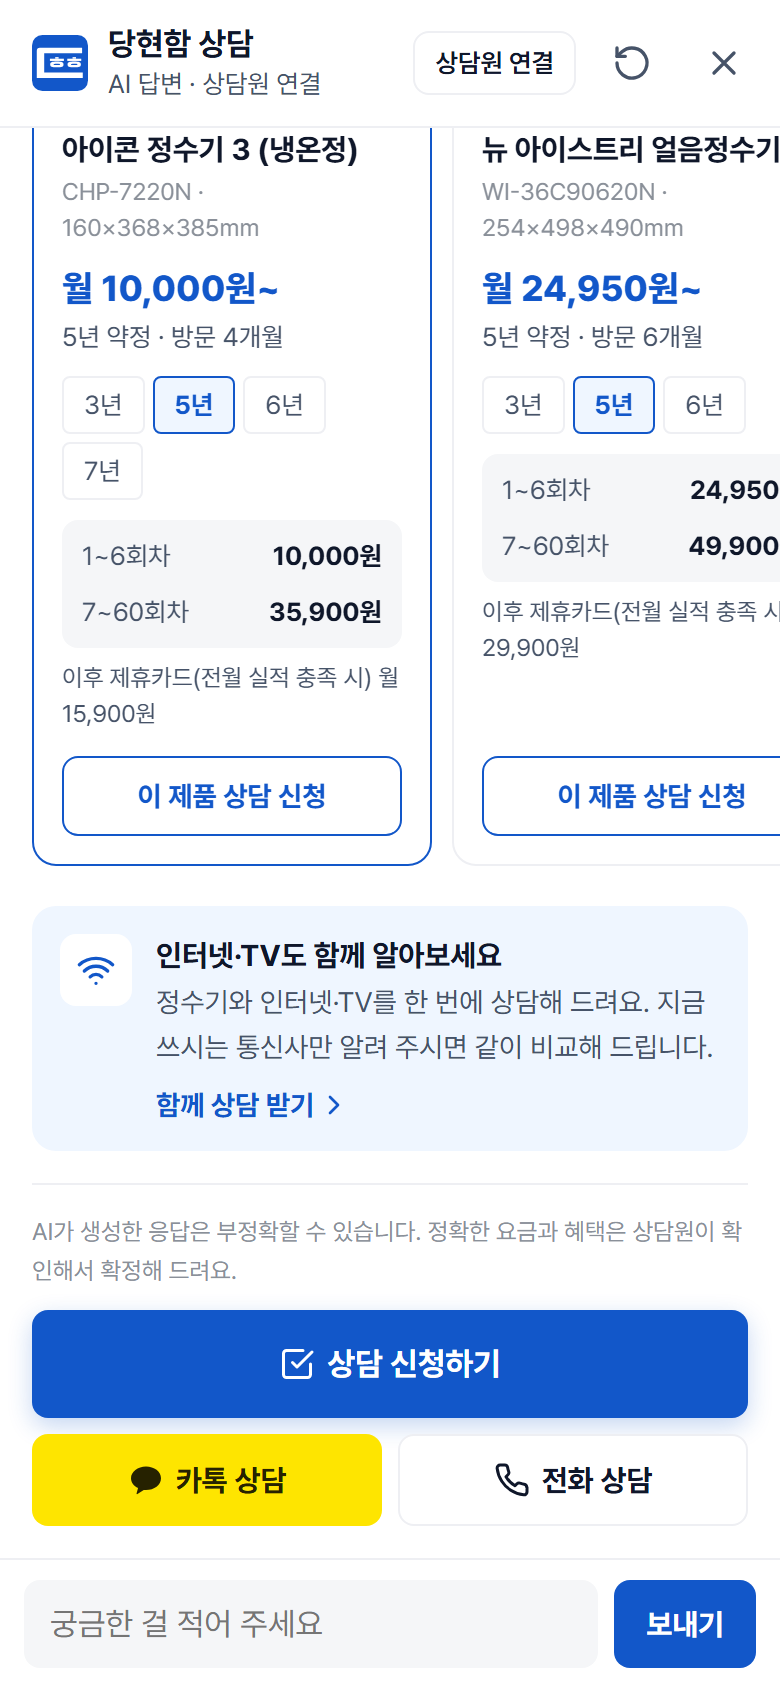
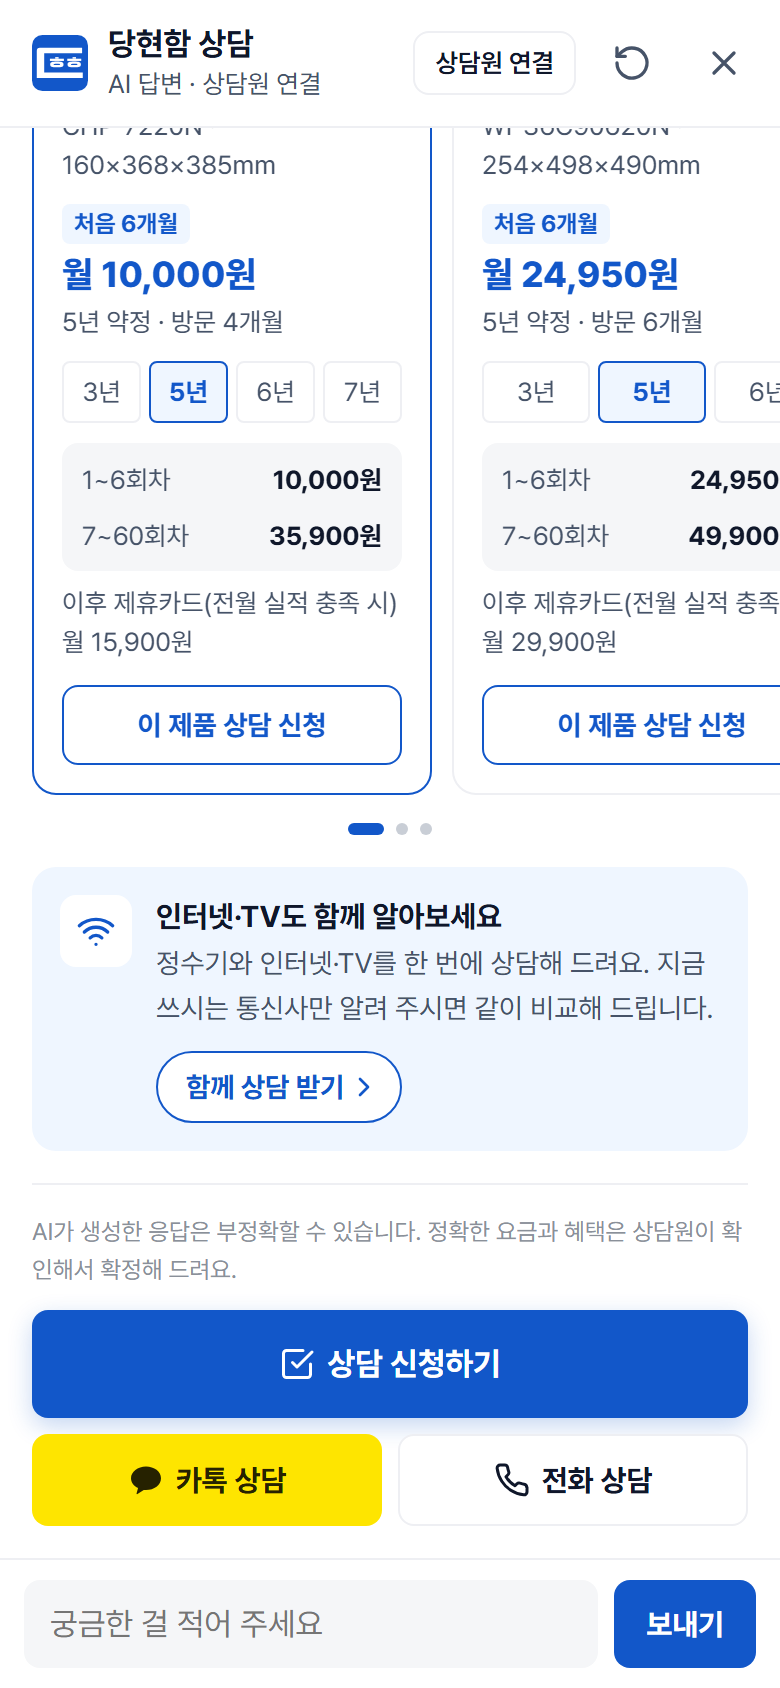
auto: 2026-11-12 15:44:45

diff --git a/시안/ai상담_디자인시안_20261112.html b/시안/ai상담_디자인시안_20261112.html
@@ -49,16 +49,16 @@ body.shot .dhai-panel.sian{width:390px;height:100vh;border:0;border-radius:0;box
 .dhai-card img{width:100%;height:132px;object-fit:contain;background:#fff;display:block;padding:10px}
 .dhai-cb{padding:4px 14px 12px;display:flex;flex-direction:column;gap:2px;flex:1}
 .dhai-brand{color:var(--c-sub,#465368);font-size:13px;line-height:1.4}.dhai-name{font-size:15px;font-weight:700;line-height:1.4;word-break:keep-all;color:var(--c-title,#0F172A)}
-.dhai-model{color:var(--c-dim,#8A9099);font-size:12px;line-height:1.5}
-.dhai-price{display:block;margin-top:8px;font-weight:800;color:var(--c-strong,#1257C9);font-size:18px;line-height:1.3}
+.dhai-model{color:var(--c-sub,#465368);font-size:13px;line-height:1.5}
+.dhai-price{display:flex;flex-direction:column;align-items:flex-start;gap:4px;white-space:nowrap;margin-top:8px;font-weight:800;color:var(--c-strong,#1257C9);font-size:18px;line-height:1.3}.dhai-price small{order:-1;font-size:12px;font-weight:700;color:var(--c-strong,#1257C9);background:var(--c-strong-bg,#EFF6FF);border-radius:4px;padding:2px 6px}
 .dhai-cond{display:block;font-size:13px;color:var(--c-sub,#465368);line-height:1.5}
-.dhai-opt{display:flex;flex-wrap:wrap;gap:4px;margin-top:8px}
-.dhai-opt button{border:1px solid var(--c-line,#EEEFF3);background:#fff;color:var(--c-sub,#465368);border-radius:4px;padding:5px 10px;font-family:inherit;font-size:13px;line-height:1.3;cursor:pointer}
+.dhai-opt{display:grid;grid-auto-flow:column;grid-auto-columns:minmax(0,1fr);gap:4px;margin-top:8px}
+.dhai-opt button{border:1px solid var(--c-line,#EEEFF3);background:#fff;color:var(--c-sub,#465368);border-radius:4px;padding:6px 0;font-family:inherit;font-size:13px;line-height:1.3;cursor:pointer;text-align:center}
 .dhai-opt button.on{border-color:var(--c-strong,#1257C9);background:var(--c-strong-bg,#EFF6FF);color:var(--c-strong,#1257C9);font-weight:700}
 .dhai-rounds{margin:8px 0 4px;background:var(--dh-gray-100,#F5F6F8);border-radius:8px;padding:4px 10px;font-size:13px}
 .dhai-rounds div{display:flex;justify-content:space-between;align-items:center;gap:6px;min-height:28px}
 .dhai-rounds span{color:var(--c-sub,#465368);white-space:nowrap}.dhai-rounds b{white-space:nowrap;font-weight:700;color:var(--c-body,#0F172A)}
-.dhai-note{display:block;color:var(--c-sub,#465368);font-size:12px;line-height:1.5}
+.dhai-note{display:block;color:var(--c-sub,#465368);font-size:13px;line-height:1.5}
 .dhai-cbtn{padding:0 14px 14px}
 .dhai-cbtn button{width:100%;height:40px;border:1px solid var(--c-strong,#1257C9);background:#fff;color:var(--c-strong,#1257C9);border-radius:8px;font-family:inherit;font-size:14px;font-weight:700;cursor:pointer}
 .dhai-warn{font-size:12px;line-height:1.6;color:var(--c-dim,#8A9099)}
@@ -81,7 +81,8 @@ body.shot .dhai-panel.sian{width:390px;height:100vh;border:0;border-radius:0;box
 /* ★6. 추천 제목 + 카드 순번 */
 .dhai-pick-h{display:flex;align-items:baseline;justify-content:space-between;gap:8px;margin:4px 0 -6px}
 .dhai-pick-h b{font-size:16px;font-weight:800;letter-spacing:-.02em;color:var(--c-title,#0F172A)}
-.dhai-pick-h span{font-size:12px;color:var(--c-dim,#8A9099)}
+.dhai-pick-h span{font-size:13px;font-weight:600;color:var(--c-sub,#465368)}
+.dhai-dots2{display:flex;justify-content:center;gap:6px;margin-top:-6px}.dhai-dots2 i{width:6px;height:6px;border-radius:999px;background:#C9CED6}.dhai-dots2 i.on{width:18px;background:var(--c-strong,#1257C9)}
 .dhai-card{position:relative}
 .dhai-no{position:absolute;top:10px;left:10px;z-index:1;min-width:24px;height:24px;padding:0 7px;border-radius:999px;background:var(--c-band,#0B2E5C);color:#fff;font-size:12px;font-weight:800;line-height:24px;text-align:center}
 .dhai-card.is-first{border-color:var(--c-strong,#1257C9)}
@@ -92,8 +93,8 @@ body.shot .dhai-panel.sian{width:390px;height:100vh;border:0;border-radius:0;box
 .dhai-with-ic{flex:none;width:36px;height:36px;border-radius:8px;background:#fff;color:var(--c-strong,#1257C9);display:flex;align-items:center;justify-content:center}
 .dhai-with-ic svg{width:20px;height:20px}
 .dhai-with b{display:block;font-size:15px;font-weight:700;line-height:1.4;color:var(--c-title,#0F172A)}
-.dhai-with p{margin:2px 0 8px;font-size:14px;line-height:1.6;color:var(--c-sub,#465368)}
-.dhai-with button{border:0;background:none;padding:0;font-family:inherit;font-size:14px;font-weight:700;color:var(--c-strong,#1257C9);cursor:pointer;display:inline-flex;align-items:center;gap:2px}
+.dhai-with p{margin:2px 0 10px;font-size:14px;line-height:1.6;color:var(--c-sub,#465368)}
+.dhai-with button{height:36px;border:1px solid var(--c-strong,#1257C9);background:#fff;border-radius:999px;padding:0 10px 0 14px;font-family:inherit;font-size:14px;font-weight:700;color:var(--c-strong,#1257C9);cursor:pointer;display:inline-flex;align-items:center;gap:2px}
 .dhai-with button svg{width:16px;height:16px}
 
 /* ★2. 맨 아래 큰 단추 — 안내 글은 위로, 상담 신청이 가장 크게 */
@@ -120,13 +121,13 @@ body.shot .dhai-panel.sian{width:390px;height:100vh;border:0;border-radius:0;box
   background-size:250% 100%;-webkit-background-clip:text;background-clip:text;-webkit-text-fill-color:transparent;animation:dhai-shine 1.6s linear infinite}
 @keyframes dhai-shine{0%{background-position:100% 0}100%{background-position:0 0}}
 .dhai-steps{list-style:none;margin:0;padding:12px 14px;display:flex;flex-direction:column;gap:8px;background:var(--dh-gray-100,#F5F6F8);border-radius:12px}
-.dhai-steps li{display:flex;align-items:center;gap:10px;font-size:14px;line-height:1.5;color:var(--c-dim,#8A9099);animation:dhai-in .35s ease-out both}
+.dhai-steps li{display:flex;align-items:center;gap:10px;font-size:15px;line-height:1.5;color:var(--c-sub,#465368);animation:dhai-in .35s ease-out both}
 .dhai-steps li::before{content:'';width:8px;height:8px;border-radius:50%;background:#C9CED6;flex:none}
 .dhai-steps li.now{color:var(--c-title,#0F172A);font-weight:700}
 .dhai-steps li.now::before{background:var(--c-strong,#1257C9);box-shadow:0 0 0 0 rgba(18,87,201,.45);animation:dhai-ping 1.4s ease-out infinite}
 @keyframes dhai-ping{0%{box-shadow:0 0 0 0 rgba(18,87,201,.45)}100%{box-shadow:0 0 0 7px rgba(18,87,201,0)}}
 @keyframes dhai-in{from{opacity:0;transform:translateY(4px)}to{opacity:1;transform:none}}
-.dhai-wait-sub{margin:0;font-size:13px;line-height:1.6;color:var(--c-sub,#465368)}
+.dhai-wait-sub{margin:0;font-size:14px;line-height:1.6;color:var(--c-sub,#465368)}
 /* 움직임 줄이기 설정이면 모두 멈춘 모양으로 */
 @media (prefers-reduced-motion:reduce){
   .dhai-face.is-wait::after,.dhai-bars i,.dhai-steps li,.dhai-steps li.now::before{animation:none}
@@ -181,16 +182,16 @@ body.shot .dhai-panel.sian{width:390px;height:100vh;border:0;border-radius:0;box
           </div>
         </div>
 
-        <div class="dhai-pick-h"><b>추천 정수기</b><span>옆으로 넘겨 보세요</span></div>
+        <div class="dhai-pick-h"><b>추천 정수기 3</b><span>옆으로 넘겨 보세요 ›</span></div>
         <div class="dhai-cards">
           <div class="dhai-card is-first"><span class="dhai-no">1</span>
             <a href="#"><img src="../img/coway-1.jpg" alt="아이콘 정수기 3"></a>
             <div class="dhai-cb"><a href="#"><span class="dhai-brand">코웨이</span><br><span class="dhai-name">아이콘 정수기 3 (냉온정)</span></a>
               <span class="dhai-model">CHP-7220N · 160×368×385mm</span>
-              <span class="dhai-price">월 10,000원~</span><span class="dhai-cond">5년 약정 · 방문 4개월</span>
+              <span class="dhai-price">월 10,000원<small>처음 6개월</small></span><span class="dhai-cond">5년 약정 · 방문 4개월</span>
               <div class="dhai-opt"><button>3년</button><button class="on">5년</button><button>6년</button><button>7년</button></div>
               <div class="dhai-rounds"><div><span>1~6회차</span><b>10,000원</b></div><div><span>7~60회차</span><b>35,900원</b></div></div>
-              <span class="dhai-note">이후 제휴카드(전월 실적 충족 시) 월 15,900원</span>
+              <span class="dhai-note">이후 제휴카드(전월 실적 충족 시) <span style="white-space:nowrap">월 15,900원</span></span>
             </div>
             <div class="dhai-cbtn"><button type="button">이 제품 상담 신청</button></div>
           </div>
@@ -198,10 +199,10 @@ body.shot .dhai-panel.sian{width:390px;height:100vh;border:0;border-radius:0;box
             <a href="#"><img src="../img/chungho-1086.jpg" alt="뉴 아이스트리 얼음정수기"></a>
             <div class="dhai-cb"><a href="#"><span class="dhai-brand">청호나이스</span><br><span class="dhai-name">뉴 아이스트리 얼음정수기</span></a>
               <span class="dhai-model">WI-36C90620N · 254×498×490mm</span>
-              <span class="dhai-price">월 24,950원~</span><span class="dhai-cond">5년 약정 · 방문 6개월</span>
+              <span class="dhai-price">월 24,950원<small>처음 6개월</small></span><span class="dhai-cond">5년 약정 · 방문 6개월</span>
               <div class="dhai-opt"><button>3년</button><button class="on">5년</button><button>6년</button></div>
               <div class="dhai-rounds"><div><span>1~6회차</span><b>24,950원</b></div><div><span>7~60회차</span><b>49,900원</b></div></div>
-              <span class="dhai-note">이후 제휴카드(전월 실적 충족 시) 월 29,900원</span>
+              <span class="dhai-note">이후 제휴카드(전월 실적 충족 시) <span style="white-space:nowrap">월 29,900원</span></span>
             </div>
             <div class="dhai-cbtn"><button type="button">이 제품 상담 신청</button></div>
           </div>
@@ -209,14 +210,16 @@ body.shot .dhai-panel.sian{width:390px;height:100vh;border:0;border-radius:0;box
             <a href="#"><img src="../img/cuckoo-1921.jpg" alt="스팀100 정수기"></a>
             <div class="dhai-cb"><a href="#"><span class="dhai-brand">쿠쿠</span><br><span class="dhai-name">스팀100 정수기 (냉온정)</span></a>
               <span class="dhai-model">CP-ABS100 · 166×490×400mm</span>
-              <span class="dhai-price">월 16,450원~</span><span class="dhai-cond">5년 약정 · 방문 4개월</span>
+              <span class="dhai-price">월 16,450원<small>처음 6개월</small></span><span class="dhai-cond">5년 약정 · 방문 4개월</span>
               <div class="dhai-opt"><button>3년</button><button class="on">5년</button><button>6년</button><button>7년</button></div>
               <div class="dhai-rounds"><div><span>1~6회차</span><b>16,450원</b></div><div><span>7~60회차</span><b>32,900원</b></div></div>
-              <span class="dhai-note">이후 제휴카드(전월 실적 충족 시) 월 12,900원</span>
+              <span class="dhai-note">이후 제휴카드(전월 실적 충족 시) <span style="white-space:nowrap">월 12,900원</span></span>
             </div>
             <div class="dhai-cbtn"><button type="button">이 제품 상담 신청</button></div>
           </div>
         </div>
+
+        <div class="dhai-dots2" aria-hidden="true"><i class="on"></i><i></i><i></i></div>
 
         <div class="dhai-with">
           <span class="dhai-with-ic" aria-hidden="true"><svg><use href="#ic-wifi"/></svg></span>
